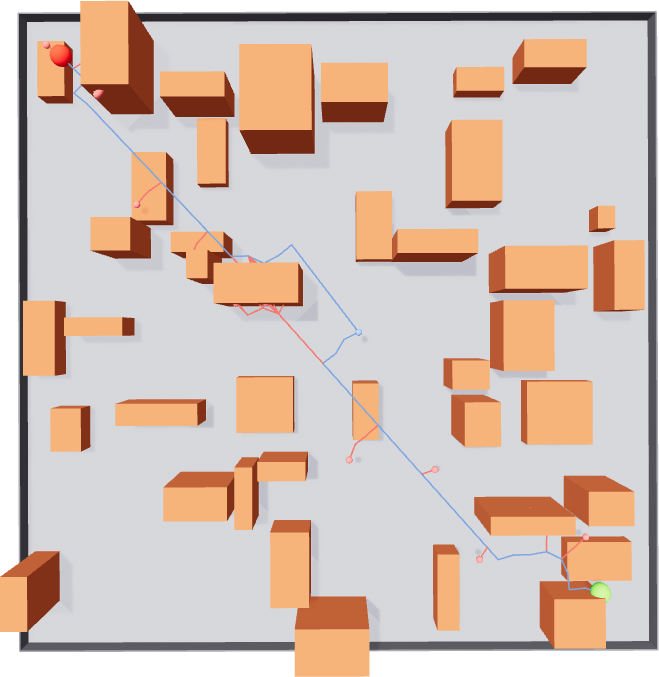
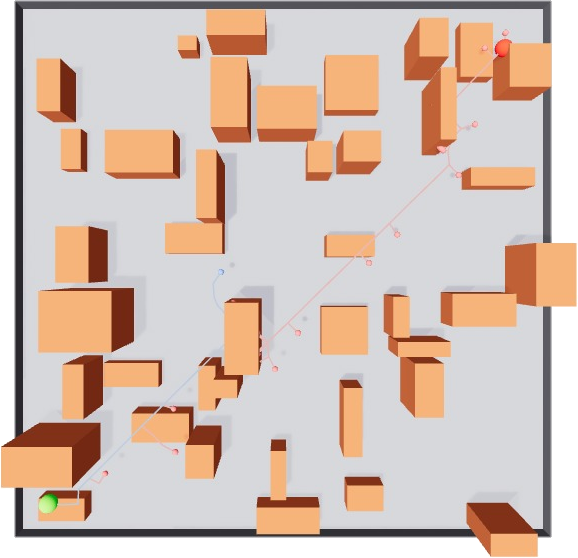
[REFAC] Update start and goal states in example scripts; remove unused obstacle map image

diff --git a/examples/prm_example.py b/examples/prm_example.py
@@ -45,8 +45,8 @@ def main(seed: int = 42) -> None:
     print(f"Generated {len(obstacles)} obstacles\n")
 
     # Define start and goal
-    start_state = np.array([-8.0, -8.0, 1.0])
-    goal_state = np.array([8.0, 8.0, 2.0])
+    start_state = np.array([8.0, 8.0, 2.0])
+    goal_state = np.array([-8.0, -8.0, 1.0])
 
     # Create visualizer
     visualizer = RRGVisualizer(server)
@@ -96,7 +96,7 @@ def main(seed: int = 42) -> None:
         visualizer.visualize_graph(
             prm,
             success_color=(100, 150, 255),  # Blue for path
-            failure_color=(150, 150, 150),  # Gray for roadmap
+            failure_color=(255, 100, 100),  # Gray for roadmap
             success_line_width=5.0,
             failure_line_width=1.0,
         )

diff --git a/examples/rrt_connect_example.py b/examples/rrt_connect_example.py
@@ -42,8 +42,8 @@ def main(seed: int = 42) -> None:
     print(f"✅ Generated {len(obstacles)} obstacles\n")
 
     # Define start and goal states
-    start_state = np.array([-8.0, -8.0, 1.0])
-    goal_state = np.array([8.0, 8.0, 2.0])
+    start_state = np.array([8.0, 8.0, 2.0])
+    goal_state = np.array([-8.0, -8.0, 1.0])
 
     print(f"🎯 Start: {start_state}")
     print(f"🏁 Goal:  {goal_state}\n")

diff --git a/examples/rrt_example.py b/examples/rrt_example.py
@@ -47,8 +47,8 @@ def main(seed: int = 42) -> None:
     print(f"  ⚪ Sphere obstacles: {sphere_count}\n")
 
     # Define start and goal
-    start_state = np.array([-8.0, -8.0, 1.0])
-    goal_state = np.array([8.0, 8.0, 2.0])
+    start_state = np.array([8.0, 8.0, 2.0])
+    goal_state = np.array([-8.0, -8.0, 1.0])
 
     # Create visualizer
     visualizer = RRTVisualizer(server)

diff --git a/examples/rrg_example.py b/examples/rrg_example.py
@@ -45,8 +45,8 @@ def main(seed: int = 42) -> None:
     print(f"Generated {len(obstacles)} obstacles\n")
 
     # Define start and goal
-    start_state = np.array([-8.0, -8.0, 1.0])
-    goal_state = np.array([8.0, 8.0, 2.0])
+    start_state = np.array([8.0, 8.0, 2.0])
+    goal_state = np.array([-8.0, -8.0, 1.0])
 
     # Create visualizer
     visualizer = RRGVisualizer(server)

diff --git a/examples/rrt_star_example.py b/examples/rrt_star_example.py
@@ -48,8 +48,8 @@ def main(seed: int = 42) -> None:
     print(f"Generated {len(obstacles)} obstacles\n")
 
     # Define start and goal
-    start_state = np.array([-8.0, -8.0, 1.0])
-    goal_state = np.array([8.0, 8.0, 2.0])
+    start_state = np.array([8.0, 8.0, 2.0])
+    goal_state = np.array([-8.0, -8.0, 1.0])
 
     # Create visualizer
     visualizer = RRGVisualizer(server)
